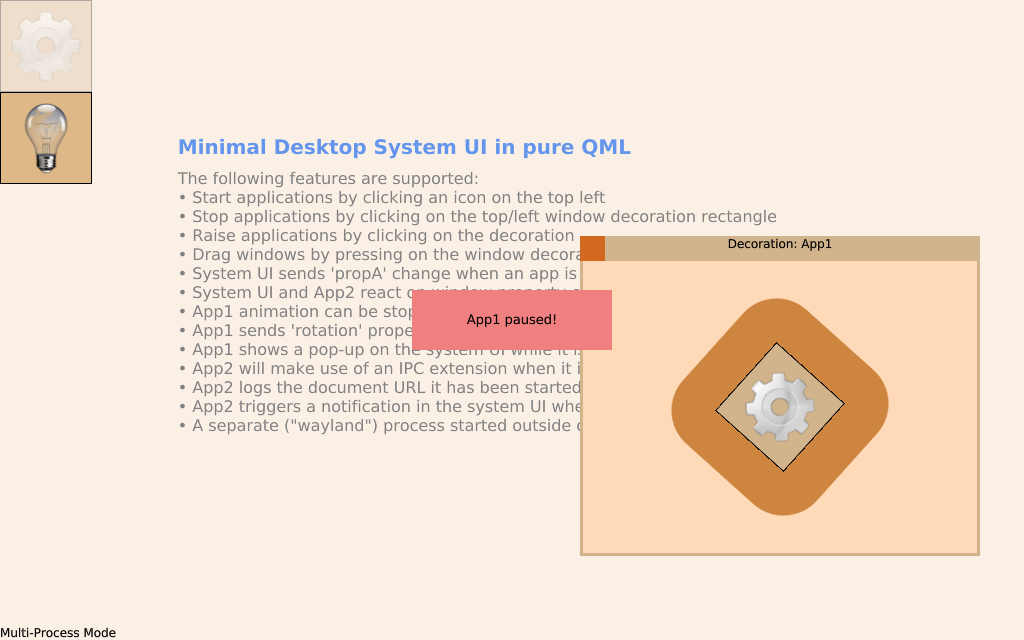
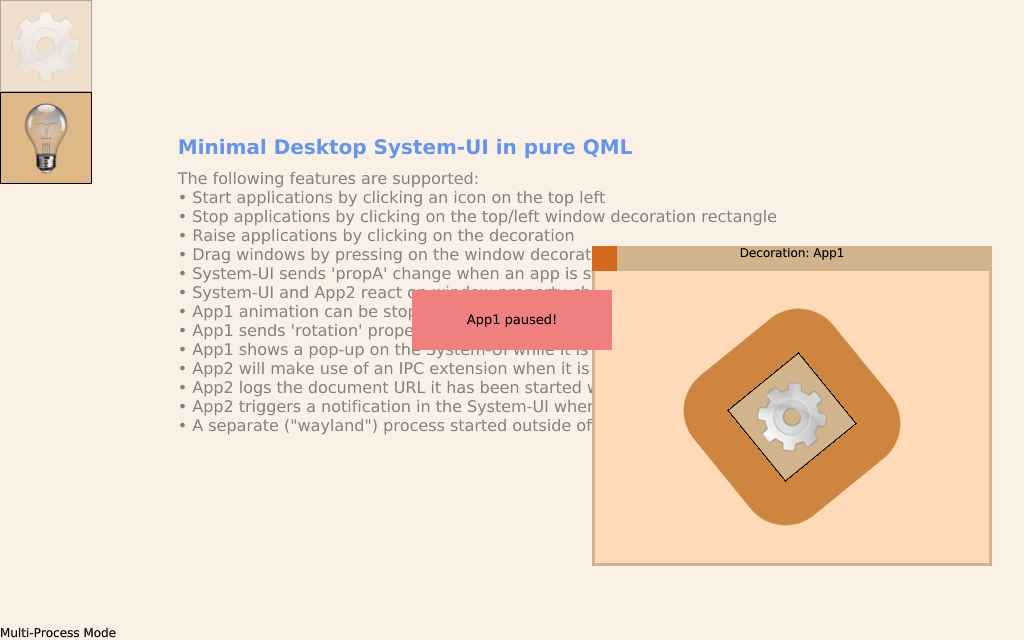
Improve documentation
* Added reference to ProcessMonitor documentation
* Consistently used term "System-UI"

diff --git a/examples/minidesk/system-ui/Readme.qml b/examples/minidesk/system-ui/Readme.qml
@@ -65,7 +65,7 @@ Item {
             id: heading
             color: "cornflowerblue"
             font { pixelSize: 20; weight: Font.Bold }
-            text: "Minimal Desktop System UI in pure QML"
+            text: "Minimal Desktop System-UI in pure QML"
         }
 
         Text {
@@ -77,14 +77,14 @@ Item {
                   "\u2022 Stop applications by clicking on the top/left window decoration rectangle\n" +
                   "\u2022 Raise applications by clicking on the decoration\n" +
                   "\u2022 Drag windows by pressing on the window decoration and moving\n" +
-                  "\u2022 System UI sends 'propA' change when an app is started\n" +
-                  "\u2022 System UI and App2 react on window property changes with a debug message\n" +
+                  "\u2022 System-UI sends 'propA' change when an app is started\n" +
+                  "\u2022 System-UI and App2 react on window property changes with a debug message\n" +
                   "\u2022 App1 animation can be stopped and restarted by a click\n" +
-                  "\u2022 App1 sends 'rotation' property to system UI on stop\n" +
-                  "\u2022 App1 shows a pop-up on the system UI while it is paused\n" +
+                  "\u2022 App1 sends 'rotation' property to System-UI on stop\n" +
+                  "\u2022 App1 shows a pop-up on the System-UI while it is paused\n" +
                   "\u2022 App2 will make use of an IPC extension when it is started\n" +
                   "\u2022 App2 logs the document URL it has been started with\n" +
-                  "\u2022 App2 triggers a notification in the system UI when the bulb icon is clicked\n" +
+                  "\u2022 App2 triggers a notification in the System-UI when the bulb icon is clicked\n" +
                   "\u2022 A separate (\"wayland\") process started outside of appman will be shown as App1"
         }
     }

diff --git a/examples/minidesk/system-ui/main.qml b/examples/minidesk/system-ui/main.qml
@@ -86,7 +86,7 @@ Rectangle {
         }
     }
 
-    // System UI chrome for applications
+    // System-UI chrome for applications
     Repeater {
         id: windows
         model: menuItems.model
@@ -131,7 +131,7 @@ Rectangle {
         }
     }
 
-    // System UI for a pop-up and notification
+    // System-UI for a pop-up and notification
     Item {
         id: popUpContainer
         z: 30000

diff --git a/src/monitor-lib/processmonitor.cpp b/src/monitor-lib/processmonitor.cpp
@@ -51,7 +51,7 @@
 
     The ProcessMonitor type provides statistics about the resource usage and performance for a process known to the
     application-manager. Currently, CPU load, memory usage and frame rate can be monitored. This type is
-    available in the system-UI only.
+    available in the System-UI only.
 
     The ProcessMonitor is dedicated to Linux in particular, since this is currently the only OS
     that supports multi-process mode. Other OS's are supported only rudimenatary.
@@ -180,7 +180,7 @@
     This property holds the OS specific process identifier (PID) that is monitored. This can be
     used by external tools for example. The property is 0, if there is no process associated with
     the \l applicationId. In particular, if the application-manager runs in single-process mode,
-    only the system-UI (identified by an empty \l applicationId) will have an associated process.
+    only the System-UI (identified by an empty \l applicationId) will have an associated process.
 */
 
 /*!
@@ -188,7 +188,7 @@
 
     The ID of the application that will be monitored. It must be one of the ID's known to the
     application-manager (\l ApplicationManager::applicationIds provides a list of valid IDs). There
-    is one exception: if the ID is set to an empty string, the system-UI process will be monitored.
+    is one exception: if the ID is set to an empty string, the System-UI process will be monitored.
     Setting a new value will reset the model.
 */
 
@@ -236,8 +236,8 @@
     signal and the WindowManager type is itself a model which holds all windows of all
     application processes.
 
-    \note It is possible to monitor server side (system-UI) views, as well,
-    if the \l applicationId is empty (hence the system-UI process will be monitored).
+    \note It is possible to monitor server side (System-UI) views, as well,
+    if the \l applicationId is empty (hence the System-UI process will be monitored).
     Those windows are available from QML since they need to be registered with
     \l {WindowManager::registerCompositorView(QQuickWindow *view)} {WindowManager}
     and can be assigned to \l monitoredWindows.

diff --git a/src/common-lib/startuptimer.cpp b/src/common-lib/startuptimer.cpp
@@ -106,7 +106,7 @@
         #color-blue   { background-color: #5454ff; color: #000000 }
     </style>
     <pre>
-<span id="color-orange">== STARTUP TIMING REPORT: System UI ==</span>
+<span id="color-orange">== STARTUP TIMING REPORT: System-UI ==</span>
 <span id="color-green">0'110.001</span> entered main                                <span id="color-blue">   </span>
 <span id="color-green">0'110.015</span> after basic initialization                  <span id="color-blue">   </span>
 <span id="color-green">0'110.311</span> after sudo server fork                      <span id="color-blue">   </span>

diff --git a/src/manager-lib/applicationmanager.cpp b/src/manager-lib/applicationmanager.cpp
@@ -1031,7 +1031,7 @@ bool ApplicationManager::openUrl(const QString &urlStr)
 
     if (!apps.isEmpty()) {
         if (!isSignalConnected(QMetaMethod::fromSignal(&ApplicationManager::openUrlRequested))) {
-            // If the system-ui does not react to the signal, then just use the first match.
+            // If the System-UI does not react to the signal, then just use the first match.
             startApplication(apps.constFirst(), urlStr, mimeTypeName);
         } else {
             ApplicationManagerPrivate::OpenUrlRequest req {

diff --git a/src/window-lib/windowmanager.cpp b/src/window-lib/windowmanager.cpp
@@ -869,7 +869,7 @@ void WindowManager::waylandSurfaceDestroyed(WindowSurface *surface)
 
     emit windowLost(index, win->windowItem()); //TODO: rename to windowDestroyed
 
-    // Just to safe-guard against the system-ui not releasing windows. This could lead to severe
+    // Just to safe-guard against the System-UI not releasing windows. This could lead to severe
     // leaks in the graphics stack and it will also prevent clean shutdowns of the appman process.
     int timeout = 2000;
     if (slowAnimations())

diff --git a/src/main-lib/main.cpp b/src/main-lib/main.cpp
@@ -669,7 +669,7 @@ void Main::showWindow(bool showFullscreen)
             QObject::disconnect(conn);
 #  endif
             StartupTimer::instance()->checkFirstFrame();
-            StartupTimer::instance()->createReport(qSL("System UI"));
+            StartupTimer::instance()->createReport(qSL("System-UI"));
         }
     });
 
